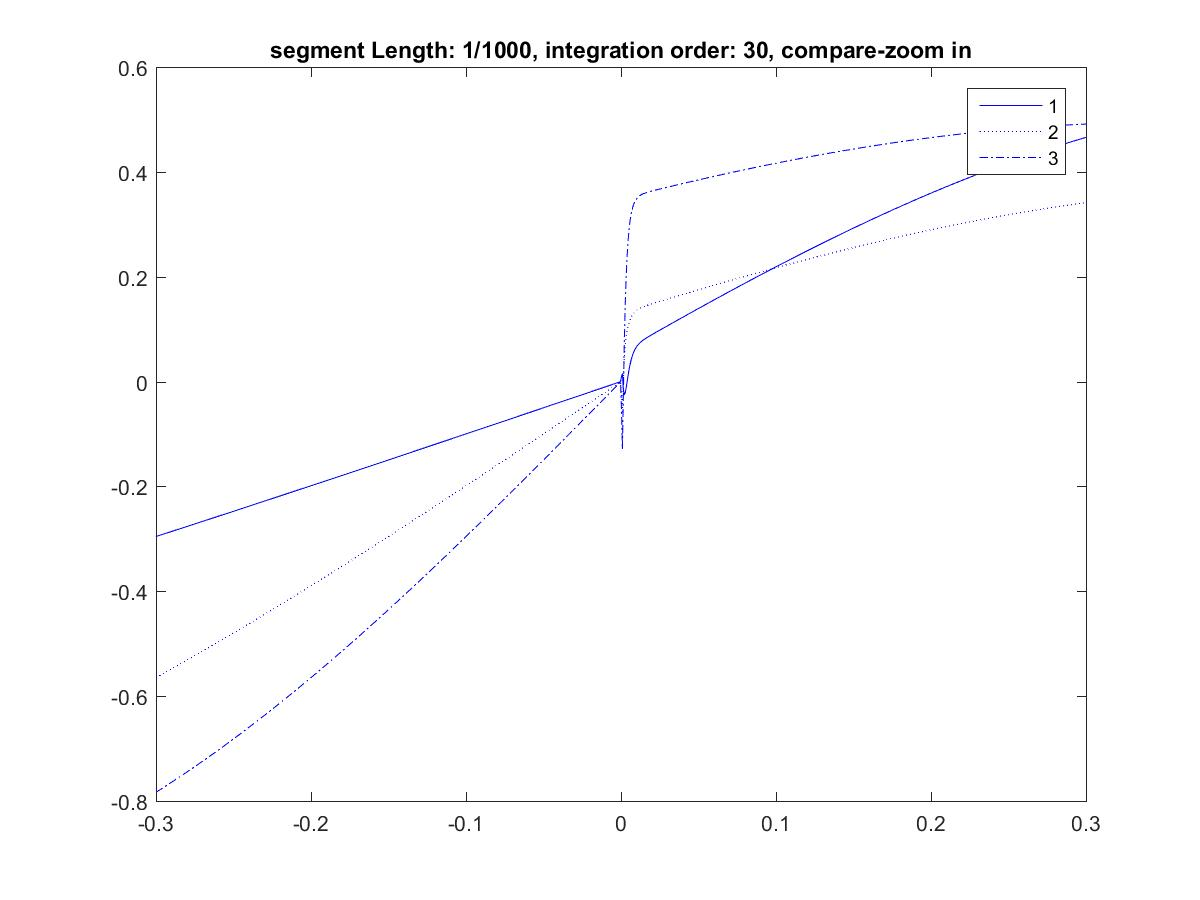
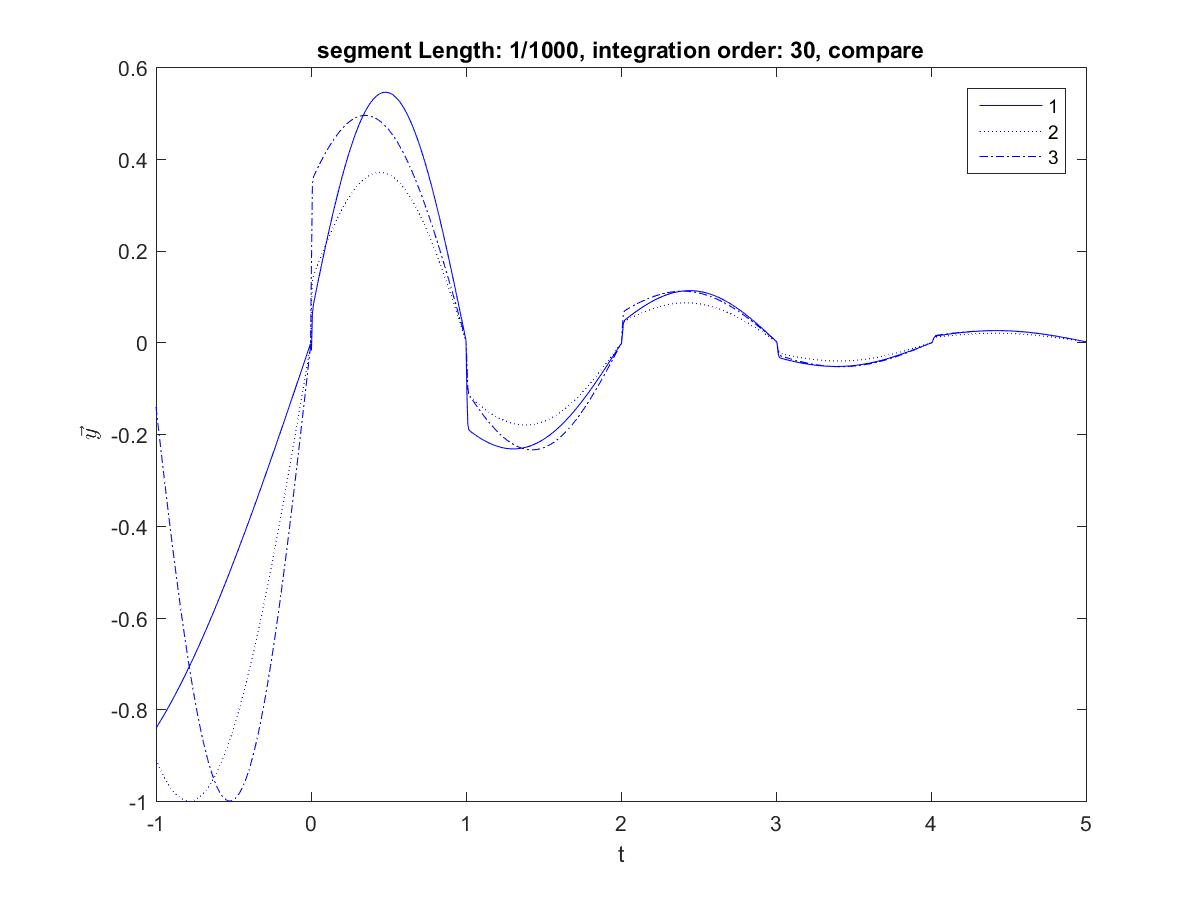
add x and y label to the plots

diff --git a/test_circuit.m b/test_circuit.m
@@ -3,8 +3,10 @@ problem = test_circuit_problem;
 s = simulator(problem);
 
 %% compute
-test_circuit_problem.intOrder(27);
-test_circuit_problem.segLen(1/100);
+intOrder = 10;
+segLen = 1000;
+test_circuit_problem.intOrder(intOrder);
+test_circuit_problem.segLen(1/segLen);
 s.compute(5)
 
 %% plot taylor
@@ -19,8 +21,9 @@ plot( t , s.calc(t) , 'b:');
 test_circuit_problem.whichVar(3);
 plot( t , s.calc(t) , 'b-.');
 legend('1', '2', '3')
-title('segment Length: 1/1000, integration order: 30, compare');
-% print -djpeg order-30-len-1000-compare
+title(sprintf('segment Length: 1/%d, integration order: %d, compare', segLen, intOrder));
+xlabel('t');ylabel('$\vec{y}$', 'interpreter','latex');
+print -djpeg order-10-len-1000-compare
 
 %%
 % figure(2)

diff --git a/test_sync2.m b/test_sync2.m
@@ -44,4 +44,5 @@ for i = 1: test_sync_problem.N-1
     plot( tt , var{i}-var{i+1} , '-');
 end
 title('Kuramoto-N = 12, w_0 = \pi /2, K = 1.25, \tau = 2, order = 10')
+xlabel('t');ylabel('$\vec{y}$', 'interpreter','latex');
 % print -djpeg unsynchronized

diff --git a/test_sync.m b/test_sync.m
@@ -43,4 +43,5 @@ for i = 1: test_sync_problem.N-1
     plot( tt , var{i}-var{i+1} , '-');
 end
 title('Kuramoto-N = 12, w_0 = \pi/2, K = 1, \tau = 1, order = 20')
+xlabel('t');ylabel('$\vec{y}$', 'interpreter','latex');
 % print -djpeg synchronized
